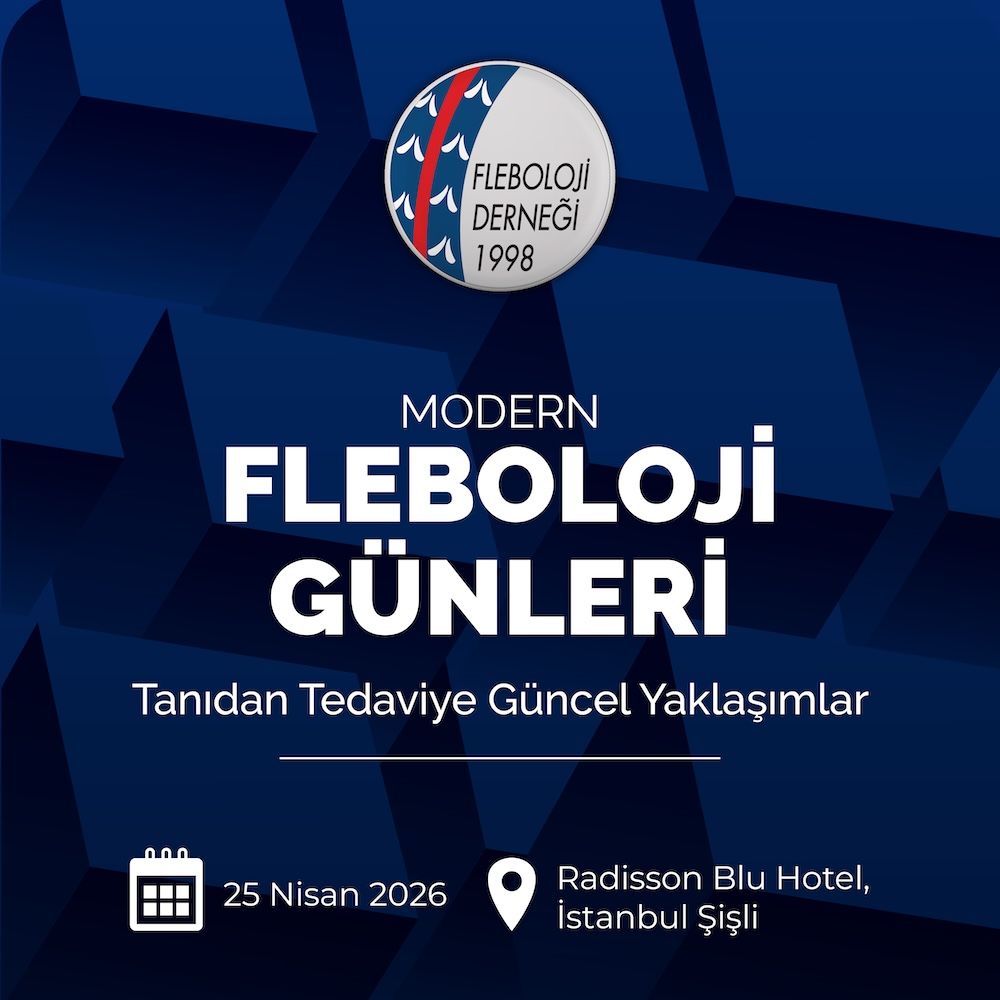
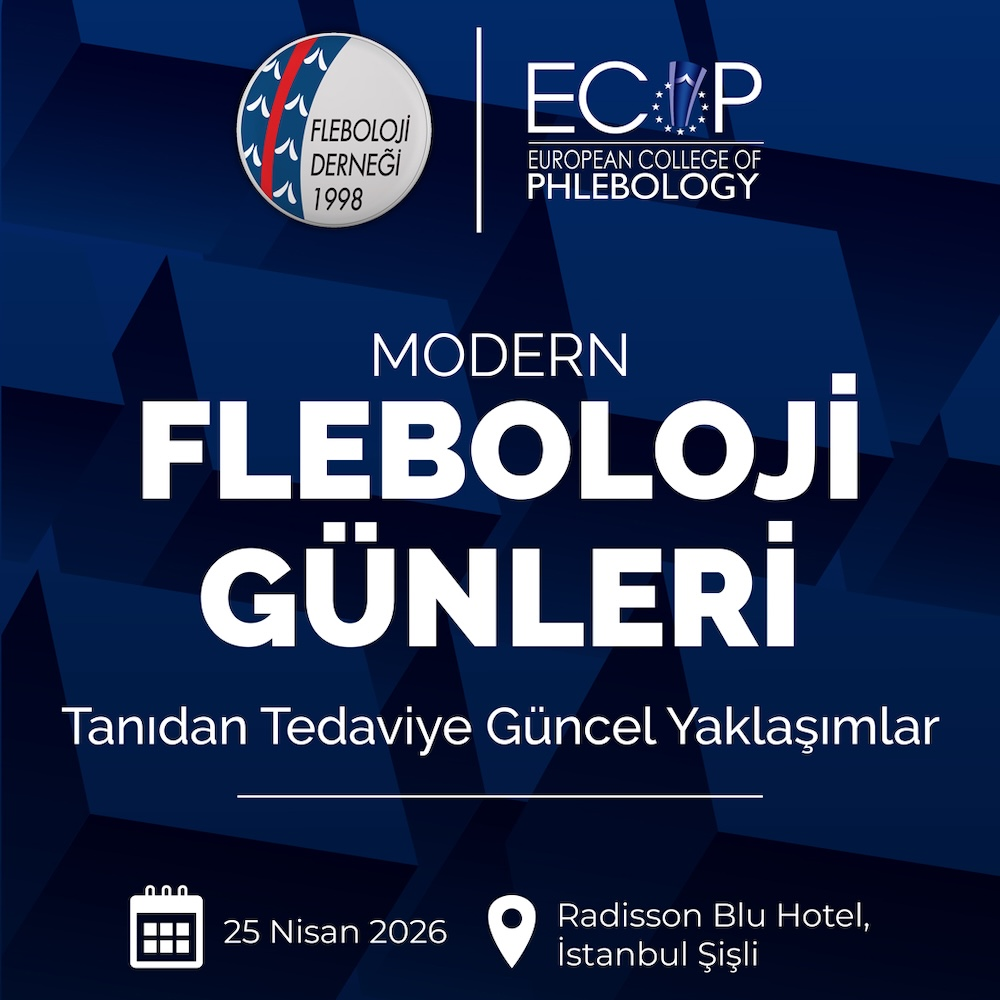
Görsel revizesi yapıldı. Program kaldırıldı.

diff --git a/index.php b/index.php
@@ -89,7 +89,7 @@
                 </div>
                 -->
                 <!-- Slider -->
-                <div class="vc_row wpb_row td-pb-row">
+                <!--<div class="vc_row wpb_row td-pb-row">
                     <div class="wpb_column vc_column_container td-pb-span12">
                         <div class="vc_column-inner">
                             <div class="wpb_wrapper">
@@ -98,6 +98,23 @@
                                         <div class="" data-flex_fx="fade" data-interval="5">
                                             <ul class="slides">
                                                 <a class="link_image" target="_blank" href=" https://uvecd2025.org/" title="13. Ulusal Fleboloji Kongresi"><img alt="" class="" height="315" src="/doc/duyurular/13-ulusal-fleboloji-kongresi.jpg?v=123" title="13. Ulusal Fleboloji Kongresi" width="1080"></a>
+                                            </ul>
+                                        </div>
+                                    </div>
+                                </div>
+                            </div>
+                        </div>
+                    </div>
+                </div> -->
+                <div class="vc_row wpb_row td-pb-row">
+                    <div class="wpb_column vc_column_container td-pb-span12">
+                        <div class="vc_column-inner">
+                            <div class="wpb_wrapper">
+                                <div class="wpb_gallery wpb_posts_slider wpb_content_element">
+                                    <div class="wpb_wrapper">
+                                        <div class="" data-flex_fx="fade" data-interval="5">
+                                            <ul class="slides">
+                                                <a class="link_image" target="_self" href="/duyurular/modern-fleboloji-gunleri-2026.php" title="Modern Fleboloji Günleri 2026"><img alt="" class="" height="315" src="/doc/modern-fleboloji/modern-fleboloji-banner.jpg" title="Modern Fleboloji Günleri 2026" width="1080"></a>
                                             </ul>
                                         </div>
                                     </div>
@@ -169,7 +186,7 @@
                                                 <div class="td-module-image">
                                                     <div class="td-module-thumb">
                                                         <a href="/duyurular/modern-fleboloji-gunleri-2026.php" rel="bookmark" title="Modern Fleboloji Günleri - Tanıdan Tedaviye Güncel Yaklaşımlar">
-                                                            <img alt="Modern Fleboloji Günleri - Tanıdan Tedaviye Güncel Yaklaşımlar" class="entry-thumb" height="150" sizes="(max-width: 218px) 100vw, 218px" src="doc/modern-fleboloji/modern-fleboloji-kare.jpeg" srcset="" title="Modern Fleboloji Günleri - Tanıdan Tedaviye Güncel Yaklaşımlar" width="218">
+                                                            <img alt="Modern Fleboloji Günleri - Tanıdan Tedaviye Güncel Yaklaşımlar" class="entry-thumb" height="150" sizes="(max-width: 218px) 100vw, 218px" src="doc/modern-fleboloji/modern-fleboloji-kare.jpeg?v=3" srcset="" title="Modern Fleboloji Günleri - Tanıdan Tedaviye Güncel Yaklaşımlar" width="218">
                                                         </a>
                                                     </div>
                                                 </div>

diff --git a/duyurular/modern-fleboloji-gunleri-2026.php b/duyurular/modern-fleboloji-gunleri-2026.php
@@ -30,15 +30,15 @@
                                     <header class="td-post-title">
                                         <h1 class="entry-title">Modern Fleboloji Günleri - Tanıdan Tedaviye Güncel Yaklaşımlar</h1>
                                         <p>25 Nisan 2026 - Radisson Blu Hotel, İstanbul, Şişli</p>
-                                        <p style=" text-align: center;"><a href="../doc/modern-fleboloji/modern-fleboloji-bilimsel-program.pdf" target="_blank" class="btn btn-primary">Bilimsel Programı İndir (PDF)</a></p>
+<!--                                        <p style=" text-align: center;"><a href="../doc/modern-fleboloji/modern-fleboloji-bilimsel-program.pdf" target="_blank" class="btn btn-primary">Bilimsel Programı İndir (PDF)</a></p>-->
                                     </header>
                                 </div>
 
 
 
                                 <div class="td-post-content">
-                                    <img src="../doc/modern-fleboloji/modern-fleboloji.jpeg" alt="Modern Fleboloji Günleri - Tanıdan Tedaviye Güncel Yaklaşımlar" style="width: 100%; height: auto;">
-                                    <p><img src="../doc/modern-fleboloji/modern-fleboloji-bilimsel-program.png" alt="Bilimsel Program" style="width: 100%; height: auto; margin-top: 20px;"></p>
+                                    <img src="../doc/modern-fleboloji/modern-fleboloji.jpeg?v=4" alt="Modern Fleboloji Günleri - Tanıdan Tedaviye Güncel Yaklaşımlar" style="width: 100%; height: auto;">
+<!--                                    <p><img src="../doc/modern-fleboloji/modern-fleboloji-bilimsel-program.png" alt="Bilimsel Program" style="width: 100%; height: auto; margin-top: 20px;"></p>-->
                                 </div>
 
                                 <footer>

diff --git a/yan-menu-duyurular-guncel.php b/yan-menu-duyurular-guncel.php
@@ -21,7 +21,7 @@
                 <div class="td_module_6 td_module_wrap td-animation-stack">
                     <div class="td-module-thumb">
                         <a href="/duyurular/modern-fleboloji-gunleri-2026.php" rel="bookmark" title="Modern Fleboloji Günleri - Tanıdan Tedaviye Güncel Yaklaşımlar">
-                            <img width="100" height="70" class="entry-thumb" src="/doc/modern-fleboloji/modern-fleboloji-kare.jpeg" alt="Modern Fleboloji Günleri - Tanıdan Tedaviye Güncel Yaklaşımlar" title="Modern Fleboloji Günleri - Tanıdan Tedaviye Güncel Yaklaşımlar" />
+                            <img width="100" height="70" class="entry-thumb" src="/doc/modern-fleboloji/modern-fleboloji-kare.jpeg?v=3" alt="Modern Fleboloji Günleri - Tanıdan Tedaviye Güncel Yaklaşımlar" title="Modern Fleboloji Günleri - Tanıdan Tedaviye Güncel Yaklaşımlar" />
                         </a>
                     </div>
                     <div class="item-details">
